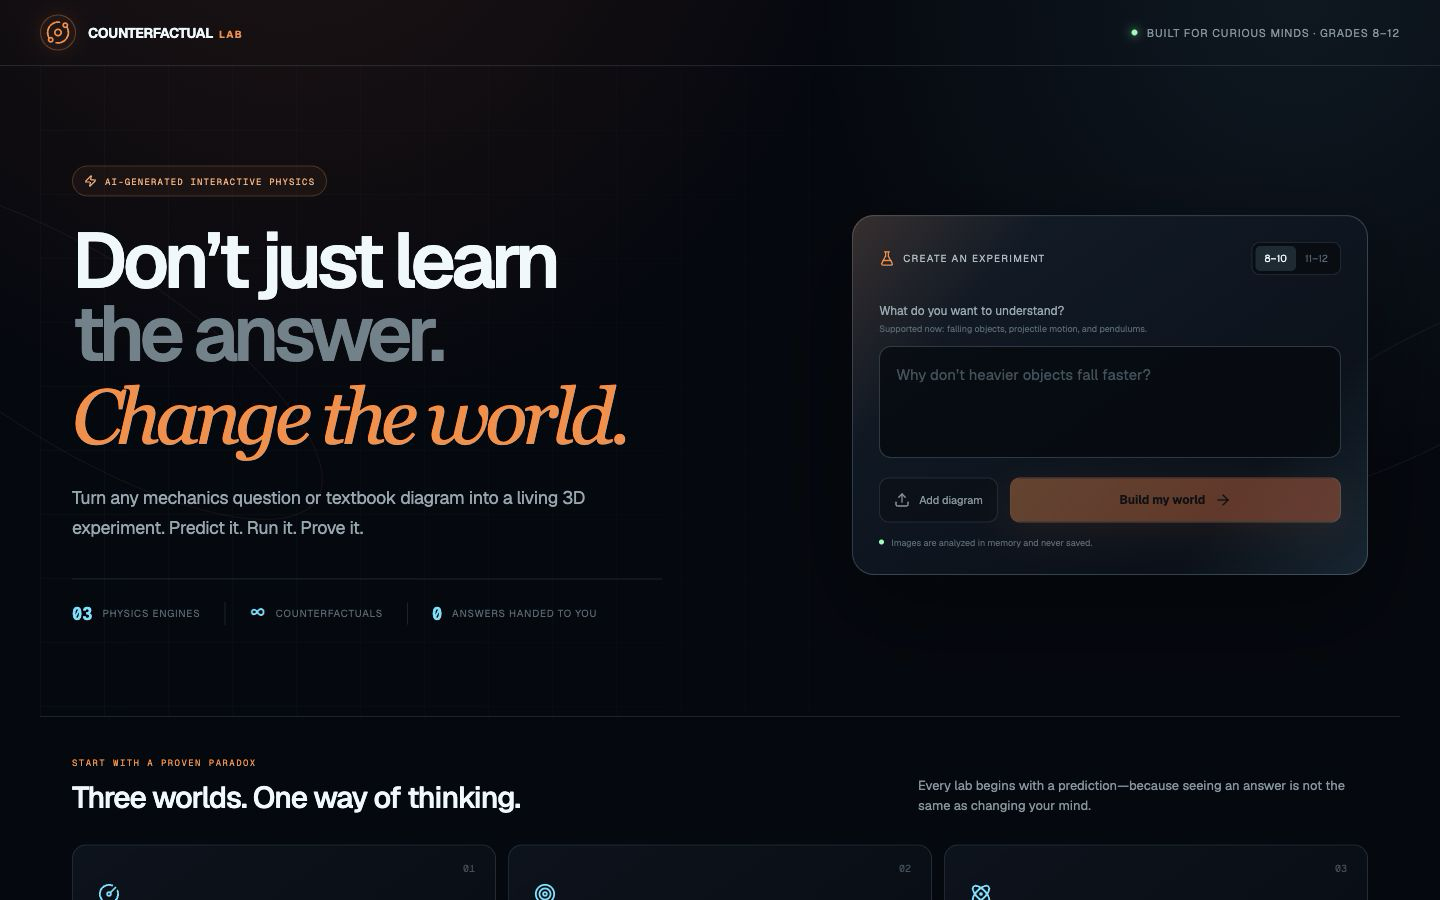
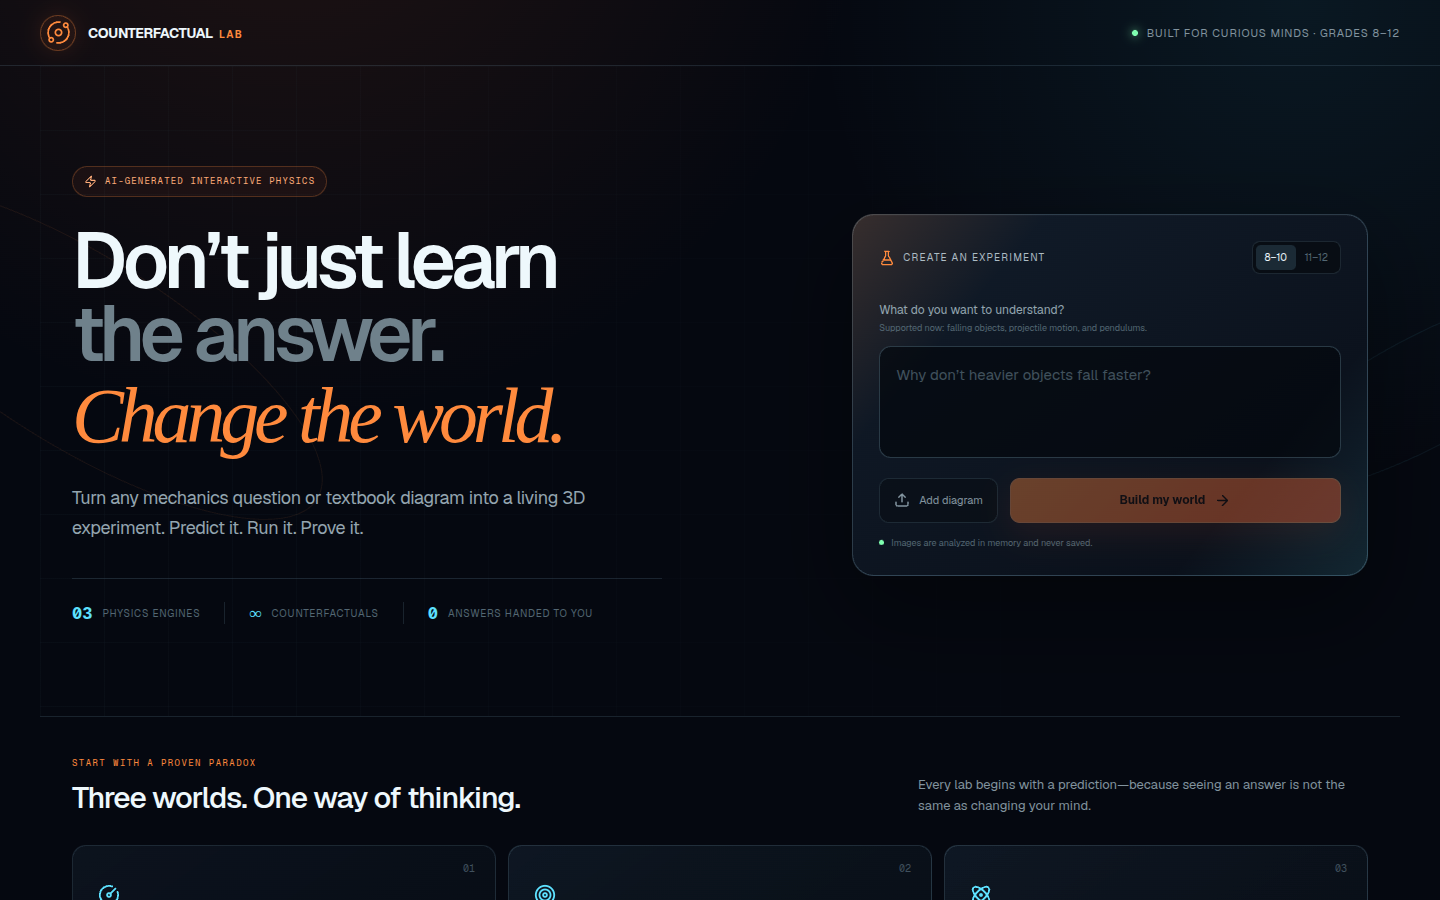
docs: verified release status and refreshed screenshots
Retakes the three submission screenshots against the release build (the
previous captures predated the consent flow and chart formatting fixes)
and adds docs/submission/release-status.md recording only verified facts:
212/212 unit tests, 4/4 E2E, API abuse battery results, the no-deployment
blocker, absent live-provider credentials, npm audit posture, and the
ordered human-only actions before Devpost submission.

Claude-Session: https://claude.ai/code/session_01YS7QYwdX2Noa6EmPna8hX2

diff --git a/docs/submission/release-status.md b/docs/submission/release-status.md
@@ -1,0 +1,127 @@
+# Release status — verified facts only
+
+Audited from `codex/release-finalization` (based on `main` @
+`dca2fe07fb7b3927ffddf907681f6c94b0cbf4a3`, the PR #2 merge). Every statement
+below was verified in this audit; nothing is aspirational. Items that require
+a human are listed at the end.
+
+## Deployment
+
+- **No deployment exists yet.** There is no `netlify.toml`/`vercel.json`, no
+  deploy workflow in `.github/workflows/`, no GitHub Pages, and no homepage
+  URL in the repository metadata.
+- The code is **Netlify AI Gateway ready**: `src/lib/ai/config.ts` uses an
+  explicit `FEATHERLESS_API_KEY` when present and otherwise falls back to the
+  `OPENAI_API_KEY`/`OPENAI_BASE_URL` pair Netlify injects, so a deployed site
+  gets live inference without a checked-in secret.
+- **Blocker:** linking a hosting project requires the account owner (new
+  service creation is out of scope for automation). Until then, all
+  deployed-app checks below were run against a **local production build**
+  (`next build` + `next start`) of this exact code.
+
+## Verification results (this audit)
+
+| Check | Result |
+| --- | --- |
+| `npm ci` | ✅ clean install |
+| `npm run lint` | ✅ 0 problems |
+| `npm run typecheck` | ✅ |
+| `npm test` | ✅ **212/212** across 20 files (all provider calls mocked) |
+| `npm run build` | ✅ production build; routes `/`, `/api/compile`, `/api/evaluate`, `/api/health` |
+| Playwright E2E (`npm run test:e2e`) | ✅ 4/4 — three family loops + provider-outage consent flow (provider mocked in-page; sandbox runs need `PLAYWRIGHT_CHROMIUM_EXECUTABLE` pointing at a preinstalled Chromium) |
+| `git diff --check` | ✅ clean |
+| Secret scan (tracked files, key patterns) | ✅ no hits; `.env*` untracked except `.env.example` |
+| `npm audit` | ⚠️ 2 moderate advisories via `next`'s bundled `postcss` range; the advisory range covers all current Next 15 releases, so there is no non-breaking remediation — accepted for the hackathon, do not force-upgrade |
+
+### Local production-server battery (offline, no provider key)
+
+All responses verified by hand against `next start`:
+
+- `GET /api/health` → `200 {"status":"ok","aiProviderConfigured":false}`
+- Landing page → 200; the only console/network error in a full learning loop
+  is the **intentional** `503 ai_not_configured` from `/api/evaluate` before
+  the learner consents to the offline rubric.
+- `/api/compile`: non-multipart → 415; malformed multipart → 400; missing
+  prompt → 400; bad gradeBand → 400; GIF image → 415; >6 MB payload → 413;
+  off-topic question → 422 naming the three families; supported question →
+  200 validated example with `provenance.source: "validated-example"` and an
+  explicit warning (never relabeled as a generated answer).
+- `/api/evaluate`: no consent + no provider → honest 503; explicit
+  `x-counterfactual-feedback-mode: heuristic` → 200 labeled offline rubric;
+  invalid mode → 400.
+- Full UI loop (drop family) through the real consent gates: example card →
+  "Open the validated drop demo" → wrong prediction → evidence (1.28 s /
+  1.28 s) → explanation → "Continue with an offline rubric" → counterfactual
+  → completion; mastery 25% → 18% → 58% (exact BKT arithmetic).
+
+## Live-provider verification
+
+**Not performed.** No provider credentials exist in the audit environment
+(`aiProviderConfigured: false`; no `FEATHERLESS_API_KEY`, no Netlify gateway
+variables), and adding credentials is explicitly out of scope for automation.
+The one-live-compile / one-live-evaluation check must be run by a human after
+deployment (see below).
+
+## Screenshots
+
+`docs/assets/submission/{landing,evidence,counterfactual-complete}.png` were
+**retaken in this audit** against this exact code (production build, offline,
+1440×900, unedited) — the previous captures predated the consent flow and the
+evidence-chart formatting fix. `evidence.png` now shows the formatted chart
+values and the provenance disclosure banner.
+
+## Changes made by this release pass
+
+1. `.github/workflows/ci.yml` — `actions/checkout` and `actions/setup-node`
+   bumped v4 → v5 (v4 runs on the deprecated Node 20 actions runtime).
+2. `playwright.config.ts` — optional `PLAYWRIGHT_CHROMIUM_EXECUTABLE`
+   override so E2E can run in sandboxes with a preinstalled Chromium; unset
+   (as in CI) the behavior is unchanged.
+3. `src/app/globals.css` — the provenance disclosure (`.compiler-notice`)
+   wraps instead of being ellipsis-clipped mid-sentence; regression-tested by
+   a scrollWidth/clientWidth assertion in `tests/e2e/lab-flow.spec.ts`.
+4. Screenshots retaken (above); this document added.
+
+No public-contract (`src/lib/contracts/experiment.ts`) changes.
+
+## Remaining risks
+
+- **Hosting:** nothing is deployed; the demo currently requires
+  `npm run build && npm run start` on a laptop. Offline mode is fully
+  demoable by design.
+- **Repository default branch is `claude/compiler`** (stale). Judges landing
+  on the repo see old code — change the default branch to `main` in GitHub
+  settings (human, one click, high priority).
+- **Dependencies:** 2 moderate `npm audit` advisories (Next/postcss range,
+  no non-breaking fix) — acceptable for the hackathon window.
+- **Live model quality** is unverified end-to-end (no credentials in audit
+  environment); the validator + deterministic physics bound the blast radius
+  by design.
+- Devpost rules page remains human-verify-only (unreachable from automation;
+  see `judge-evidence-map.md`).
+
+## Demo backup instructions (no provider, no network needed)
+
+1. `npm ci && npm run build && npm run start`
+2. Open `http://localhost:3000`, click example card 01.
+3. Click **Open the validated drop demo** (explicit consent — say the honest
+   line: "the AI compiler isn't configured here, so I'm choosing the
+   validated demo").
+4. Follow `docs/submission/demo-script.md` (backup table) — every number in
+   it (1.28 s impacts, 25→18→58 mastery) reproduces deterministically on a
+   fresh browser profile; consent to the offline rubric when prompted.
+
+## Human-only actions before Devpost submission
+
+1. Change the GitHub default branch from `claude/compiler` to `main`.
+2. Link a Netlify (or equivalent) site to the repo and deploy `main`; then
+   fill in the production URL + deployed SHA in
+   `docs/submission/demo-day-checklist.md` and re-run its smoke test.
+3. With credentials configured on the host, run one live compile and one
+   live evaluation; confirm `provenance.source: "generated"` and rubric
+   feedback, then record the result here.
+4. Open the live rules page and re-verify the judging-criteria mapping in
+   `docs/submission/judge-evidence-map.md`.
+5. Record the demo video per `docs/submission/demo-script.md` (≤ 1:55).
+6. Complete Devpost fields from `docs/submission/devpost-submission.md` and
+   submit.